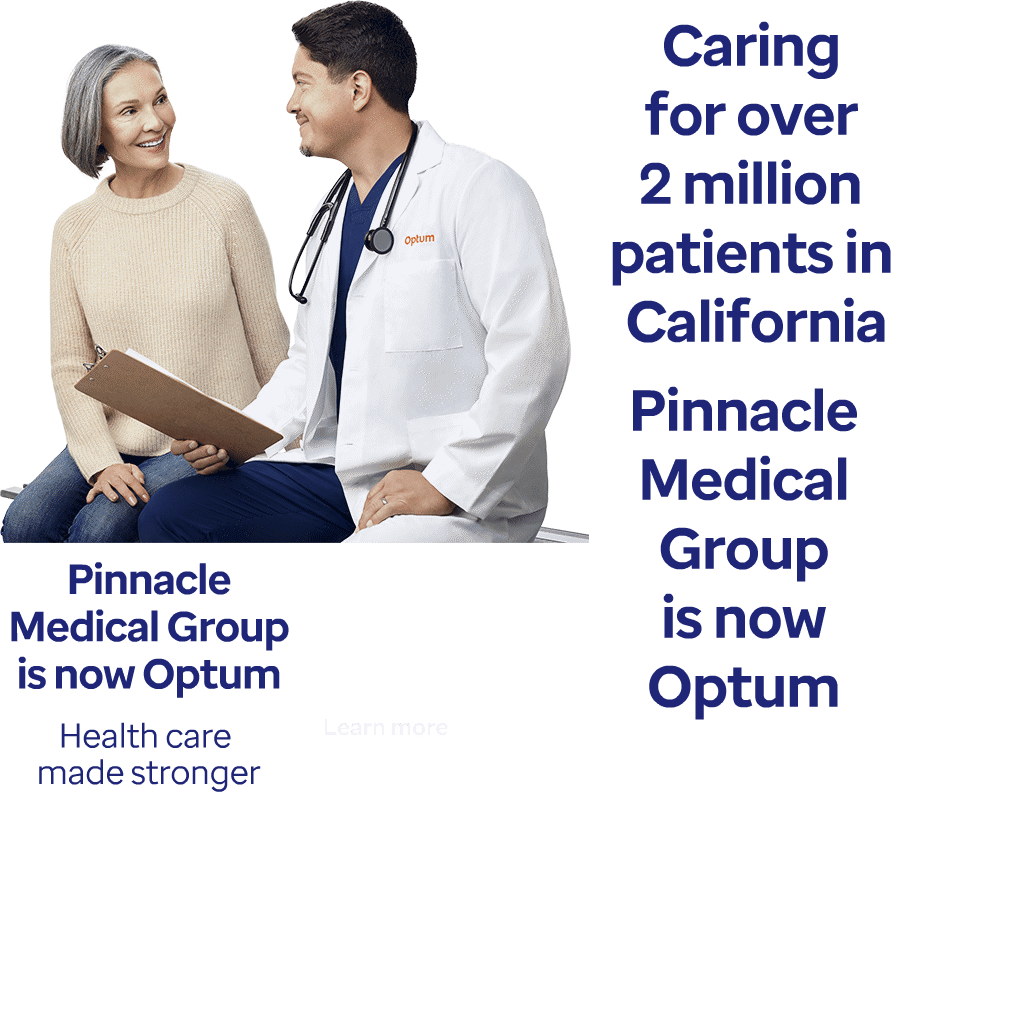
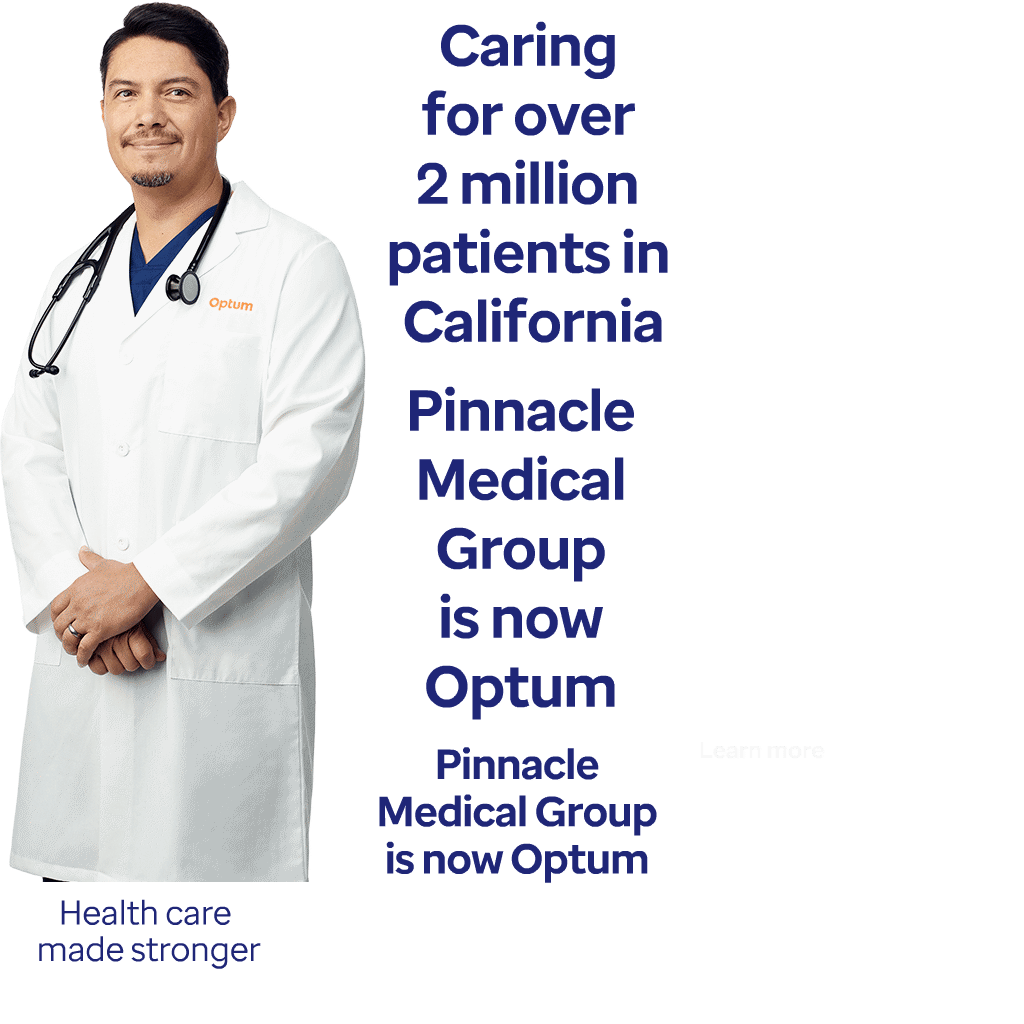
Add files via upload

diff --git a/ENG/PMG-ca/160x600/OPTCA639_Display_PMG-ca_160x600.js b/ENG/PMG-ca/160x600/OPTCA639_Display_PMG-ca_160x600.js
@@ -3,7 +3,7 @@
 var p; // shortcut to reference prototypes
 var lib={};var ss={};var img={};
 lib.ssMetadata = [
-		{name:"OPTCA639_Display_PMG_ca_160x600_atlas_1", frames: [[0,707,290,91],[591,0,320,363],[591,365,305,363],[0,545,298,160],[292,707,188,39],[0,0,589,543]]}
+		{name:"OPTCA639_Display_PMG_ca_160x600_atlas_1", frames: [[0,884,290,91],[368,0,320,363],[368,365,305,363],[368,730,298,160],[668,730,188,39],[0,0,366,882]]}
 ];
 
 
@@ -27,42 +27,42 @@ lib.ssMetadata = [
 
 
 
-(lib.CachedBmp_25 = function() {
+(lib.CachedBmp_15 = function() {
 	this.initialize(ss["OPTCA639_Display_PMG_ca_160x600_atlas_1"]);
 	this.gotoAndStop(0);
 }).prototype = p = new cjs.Sprite();
 
 
 
-(lib.CachedBmp_24 = function() {
+(lib.CachedBmp_14 = function() {
 	this.initialize(ss["OPTCA639_Display_PMG_ca_160x600_atlas_1"]);
 	this.gotoAndStop(1);
 }).prototype = p = new cjs.Sprite();
 
 
 
-(lib.CachedBmp_23 = function() {
+(lib.CachedBmp_13 = function() {
 	this.initialize(ss["OPTCA639_Display_PMG_ca_160x600_atlas_1"]);
 	this.gotoAndStop(2);
 }).prototype = p = new cjs.Sprite();
 
 
 
-(lib.CachedBmp_22 = function() {
+(lib.CachedBmp_12 = function() {
 	this.initialize(ss["OPTCA639_Display_PMG_ca_160x600_atlas_1"]);
 	this.gotoAndStop(3);
 }).prototype = p = new cjs.Sprite();
 
 
 
-(lib.CachedBmp_21 = function() {
+(lib.CachedBmp_11 = function() {
 	this.initialize(ss["OPTCA639_Display_PMG_ca_160x600_atlas_1"]);
 	this.gotoAndStop(4);
 }).prototype = p = new cjs.Sprite();
 
 
 
-(lib.OPTCA639_Display_300x60006217623 = function() {
+(lib.OPTCA639_Display_300x60005597623 = function() {
 	this.initialize(ss["OPTCA639_Display_PMG_ca_160x600_atlas_1"]);
 	this.gotoAndStop(5);
 }).prototype = p = new cjs.Sprite();
@@ -85,6 +85,29 @@ function getMCSymbolPrototype(symbol, nominalBounds, frameBounds) {
 	}
 
 
+(lib.Tween1 = function(mode,startPosition,loop,reversed) {
+if (loop == null) { loop = true; }
+if (reversed == null) { reversed = false; }
+	var props = new Object();
+	props.mode = mode;
+	props.startPosition = startPosition;
+	props.labels = {};
+	props.loop = loop;
+	props.reversed = reversed;
+	cjs.MovieClip.apply(this,[props]);
+
+	// Layer_1
+	this.shape = new cjs.Shape();
+	this.shape.graphics.f("#D2F5F9").s().p("AxLP3IAA/tMAiXAAAIAAftg");
+
+	this.timeline.addTween(cjs.Tween.get(this.shape).wait(1));
+
+	this._renderFirstFrame();
+
+}).prototype = p = new cjs.MovieClip();
+p.nominalBounds = new cjs.Rectangle(-110,-101.5,220,203);
+
+
 (lib.SUB = function(mode,startPosition,loop,reversed) {
 if (loop == null) { loop = true; }
 if (reversed == null) { reversed = false; }
@@ -97,7 +120,7 @@ if (reversed == null) { reversed = false; }
 	cjs.MovieClip.apply(this,[props]);
 
 	// Layer_1
-	this.instance = new lib.CachedBmp_25();
+	this.instance = new lib.CachedBmp_15();
 	this.instance.setTransform(0,0,0.5,0.5);
 
 	this.timeline.addTween(cjs.Tween.get(this.instance).wait(1));
@@ -119,14 +142,14 @@ if (reversed == null) { reversed = false; }
 	cjs.MovieClip.apply(this,[props]);
 
 	// Layer_2
-	this.instance = new lib.OPTCA639_Display_300x60006217623();
-	this.instance.setTransform(-146,-127,0.5,0.5);
+	this.instance = new lib.OPTCA639_Display_300x60005597623();
+	this.instance.setTransform(-84,-359,0.5,0.5);
 
 	this.timeline.addTween(cjs.Tween.get(this.instance).wait(1));
 
 	this._renderFirstFrame();
 
-}).prototype = getMCSymbolPrototype(lib.PIC, new cjs.Rectangle(-146,-127,294.5,271.5), null);
+}).prototype = getMCSymbolPrototype(lib.PIC, new cjs.Rectangle(-84,-359,183,441), null);
 
 
 (lib.Optum_2022_RGBai = function(mode,startPosition,loop,reversed) {
@@ -165,7 +188,7 @@ if (reversed == null) { reversed = false; }
 	cjs.MovieClip.apply(this,[props]);
 
 	// i2
-	this.instance = new lib.CachedBmp_24();
+	this.instance = new lib.CachedBmp_14();
 	this.instance.setTransform(-80,202.95,0.5,0.5);
 
 	this.timeline.addTween(cjs.Tween.get(this.instance).wait(244));
@@ -195,7 +218,7 @@ if (reversed == null) { reversed = false; }
 	cjs.MovieClip.apply(this,[props]);
 
 	// Layer_1
-	this.instance = new lib.CachedBmp_23();
+	this.instance = new lib.CachedBmp_13();
 	this.instance.setTransform(-76.25,-100.75,0.5,0.5);
 
 	this.timeline.addTween(cjs.Tween.get(this.instance).wait(1));
@@ -218,7 +241,7 @@ if (reversed == null) { reversed = false; }
 	cjs.MovieClip.apply(this,[props]);
 
 	// Layer_1 copy
-	this.instance = new lib.CachedBmp_22();
+	this.instance = new lib.CachedBmp_12();
 	this.instance.setTransform(0,0,0.5,0.5);
 
 	this.timeline.addTween(cjs.Tween.get(this.instance).wait(1));
@@ -240,7 +263,7 @@ if (reversed == null) { reversed = false; }
 	cjs.MovieClip.apply(this,[props]);
 
 	// type
-	this.instance = new lib.CachedBmp_21();
+	this.instance = new lib.CachedBmp_11();
 	this.instance.setTransform(-44.15,-25.9,0.5,0.5);
 
 	this.timeline.addTween(cjs.Tween.get(this.instance).wait(1));
@@ -410,51 +433,58 @@ if (reversed == null) { reversed = false; }
 
 	// PIC
 	this.instance_1 = new lib.PIC();
-	this.instance_1.setTransform(85.65,706.95,0.63,0.63,0,0,0,0.2,0.2);
+	this.instance_1.setTransform(77.15,919.15,0.78,0.78,0,0,0,0.2,0.2);
 	this.instance_1._off = true;
 
-	this.timeline.addTween(cjs.Tween.get(this.instance_1).wait(158).to({_off:false},0).to({x:80.05,y:546.25},18,cjs.Ease.quadOut).wait(11));
+	this.timeline.addTween(cjs.Tween.get(this.instance_1).wait(158).to({_off:false},0).to({regX:0.3,regY:0.3,x:77.25,y:600.15},18,cjs.Ease.quadOut).wait(11));
 
 	// pill
 	this.instance_2 = new lib.Bkgd_CircleRGB01ai("synched",0);
 	this.instance_2.setTransform(80.1,726.4,0.2961,0.2961,0,0,0,305.9,306.3);
 	this.instance_2._off = true;
 
-	this.timeline.addTween(cjs.Tween.get(this.instance_2).wait(153).to({_off:false},0).to({regY:306.4,y:564.1},15,cjs.Ease.quadOut).wait(19));
+	this.timeline.addTween(cjs.Tween.get(this.instance_2).wait(153).to({_off:false},0).to({regY:306.4,y:417.1},15,cjs.Ease.quadOut).wait(19));
 
-	// CTA
-	this.instance_3 = new lib.CTA();
-	this.instance_3.setTransform(77.1,525,1,1,0,0,0,0,10);
+	// pill btm
+	this.instance_3 = new lib.Tween1("synched",0);
+	this.instance_3.setTransform(81,830);
 	this.instance_3._off = true;
 
-	this.timeline.addTween(cjs.Tween.get(this.instance_3).wait(174).to({_off:false},0).to({y:281},10,cjs.Ease.quadOut).wait(3));
+	this.timeline.addTween(cjs.Tween.get(this.instance_3).wait(153).to({_off:false},0).to({y:520.5},15,cjs.Ease.quadOut).wait(19));
 
-	// SUB
-	this.instance_4 = new lib.SUB();
-	this.instance_4.setTransform(152.5,494.6,1,1,0,0,0,144.5,13.6);
+	// CTA
+	this.instance_4 = new lib.CTA();
+	this.instance_4.setTransform(77.1,525,1,1,0,0,0,0,10);
 	this.instance_4._off = true;
 
-	this.timeline.addTween(cjs.Tween.get(this.instance_4).wait(165).to({_off:false},0).to({y:190.6},17,cjs.Ease.quadOut).wait(5));
+	this.timeline.addTween(cjs.Tween.get(this.instance_4).wait(174).to({_off:false},0).to({y:281},10,cjs.Ease.quadOut).wait(3));
 
-	// HEAD
-	this.instance_5 = new lib.HEAD();
-	this.instance_5.setTransform(5.5,638,1,1,0,0,0,0,38);
+	// SUB
+	this.instance_5 = new lib.SUB();
+	this.instance_5.setTransform(152.5,494.6,1,1,0,0,0,144.5,13.6);
 	this.instance_5._off = true;
 
-	this.timeline.addTween(cjs.Tween.get(this.instance_5).wait(147).to({_off:false},0).to({y:127},15,cjs.Ease.quadInOut).wait(25));
+	this.timeline.addTween(cjs.Tween.get(this.instance_5).wait(165).to({_off:false},0).to({y:190.6},17,cjs.Ease.quadOut).wait(5));
 
-	// i2
-	this.instance_6 = new lib.i2();
-	this.instance_6.setTransform(230,725,1,1,0,0,0,150,125);
+	// HEAD
+	this.instance_6 = new lib.HEAD();
+	this.instance_6.setTransform(5.5,638,1,1,0,0,0,0,38);
 	this.instance_6._off = true;
 
-	this.timeline.addTween(cjs.Tween.get(this.instance_6).wait(69).to({_off:false},0).to({y:125},13,cjs.Ease.quadInOut).wait(61).to({y:-475},15,cjs.Ease.quadInOut).to({_off:true},1).wait(28));
+	this.timeline.addTween(cjs.Tween.get(this.instance_6).wait(147).to({_off:false},0).to({y:127},15,cjs.Ease.quadInOut).wait(25));
+
+	// i2
+	this.instance_7 = new lib.i2();
+	this.instance_7.setTransform(230,725,1,1,0,0,0,150,125);
+	this.instance_7._off = true;
+
+	this.timeline.addTween(cjs.Tween.get(this.instance_7).wait(69).to({_off:false},0).to({y:125},13,cjs.Ease.quadInOut).wait(61).to({y:-475},15,cjs.Ease.quadInOut).to({_off:true},1).wait(28));
 
 	// i1
-	this.instance_7 = new lib.i1();
-	this.instance_7.setTransform(230,425,1,1,0,0,0,150,125);
+	this.instance_8 = new lib.i1();
+	this.instance_8.setTransform(230,425,1,1,0,0,0,150,125);
 
-	this.timeline.addTween(cjs.Tween.get(this.instance_7).wait(69).to({y:-175},13,cjs.Ease.quadInOut).to({_off:true},1).wait(104));
+	this.timeline.addTween(cjs.Tween.get(this.instance_8).wait(69).to({y:-175},13,cjs.Ease.quadInOut).to({_off:true},1).wait(104));
 
 	// bkgd
 	this.shape_1 = new cjs.Shape();

diff --git a/ENG/PMG-ca/160x600/OPTCA639_Display_PMG-ca_160x600.html b/ENG/PMG-ca/160x600/OPTCA639_Display_PMG-ca_160x600.html
@@ -15,10 +15,8 @@
 <!-- write your code here -->
 <meta name="ad.size" content="width=160,height=600">
 <script type="text/javascript">
-var clickTag = "https://optum.com/pinnaclemedical"; </script>
-<!-- DCM/Google/DoubleClick: Change external scripts URL to 2020 version: <script src="https://s0.2mdn.net/ads/studio/cached_libs/createjs_2019.11.15_min.js"></script> -->
-<!-- Remove garbage after .js -->
-<script src="https://code.createjs.com/1.0.0/createjs.min.js"></script>
+var clickTag = "https://pinnaclemedical.com/"; </script>
+<script src="https://s0.2mdn.net/ads/studio/cached_libs/createjs_2019.11.15_min.js"></script>
 <script src="OPTCA639_Display_PMG-ca_160x600.js"></script>
 <script>
 var canvas, stage, exportRoot, anim_container, dom_overlay_container, fnStartAnimation;
